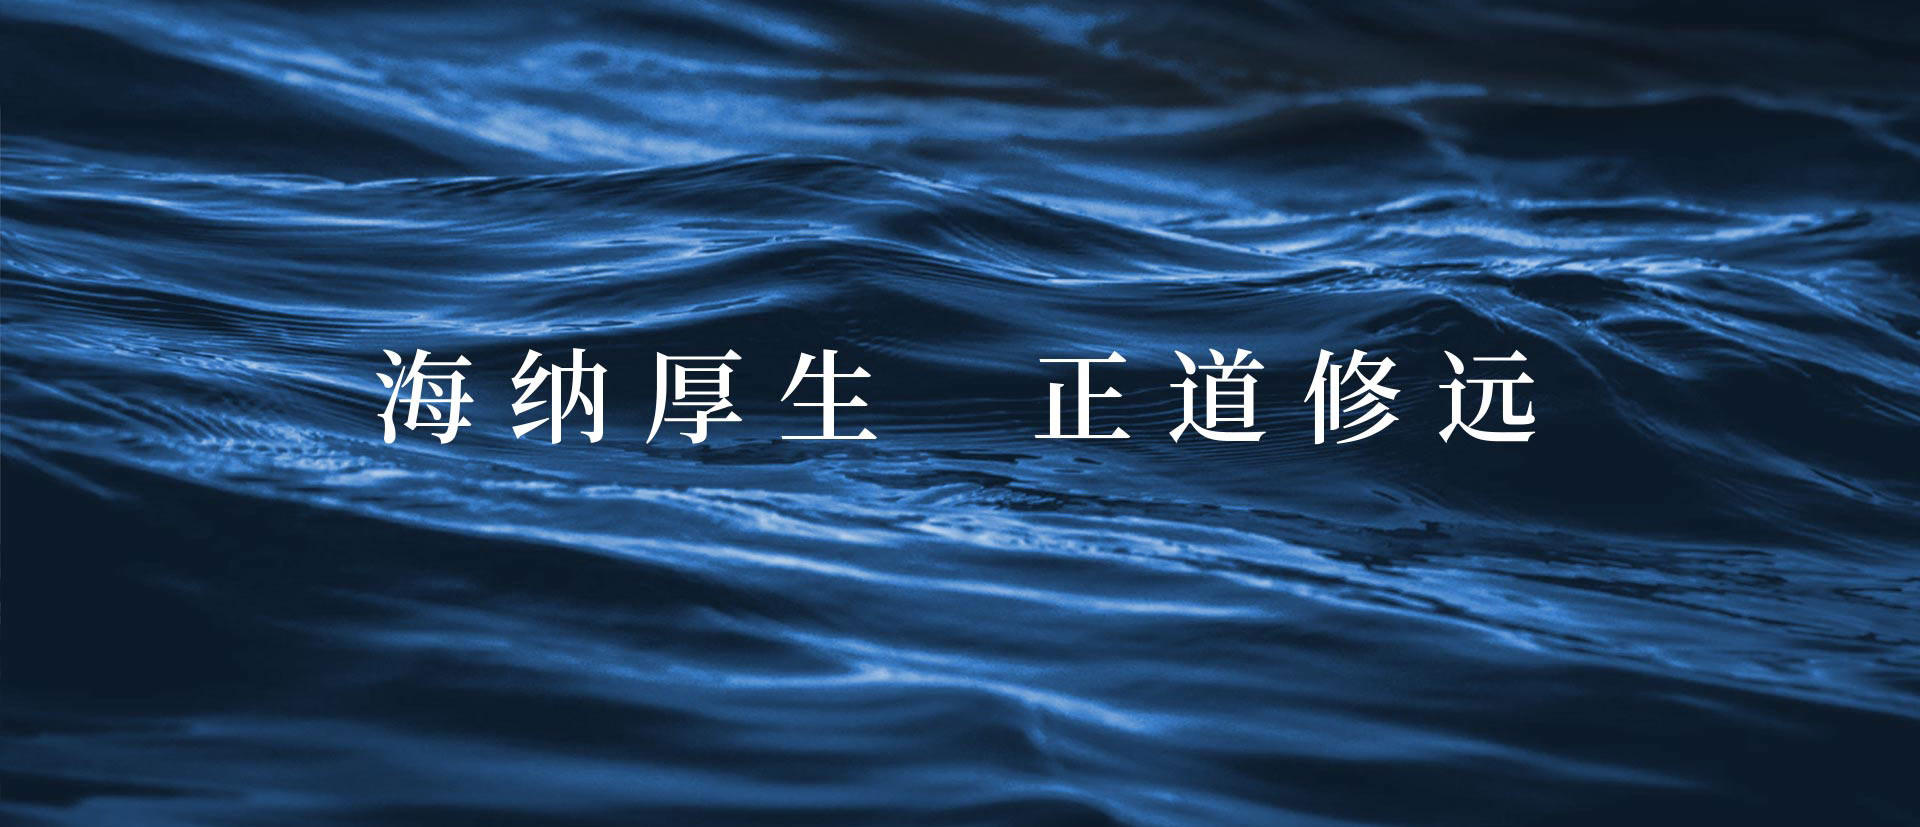
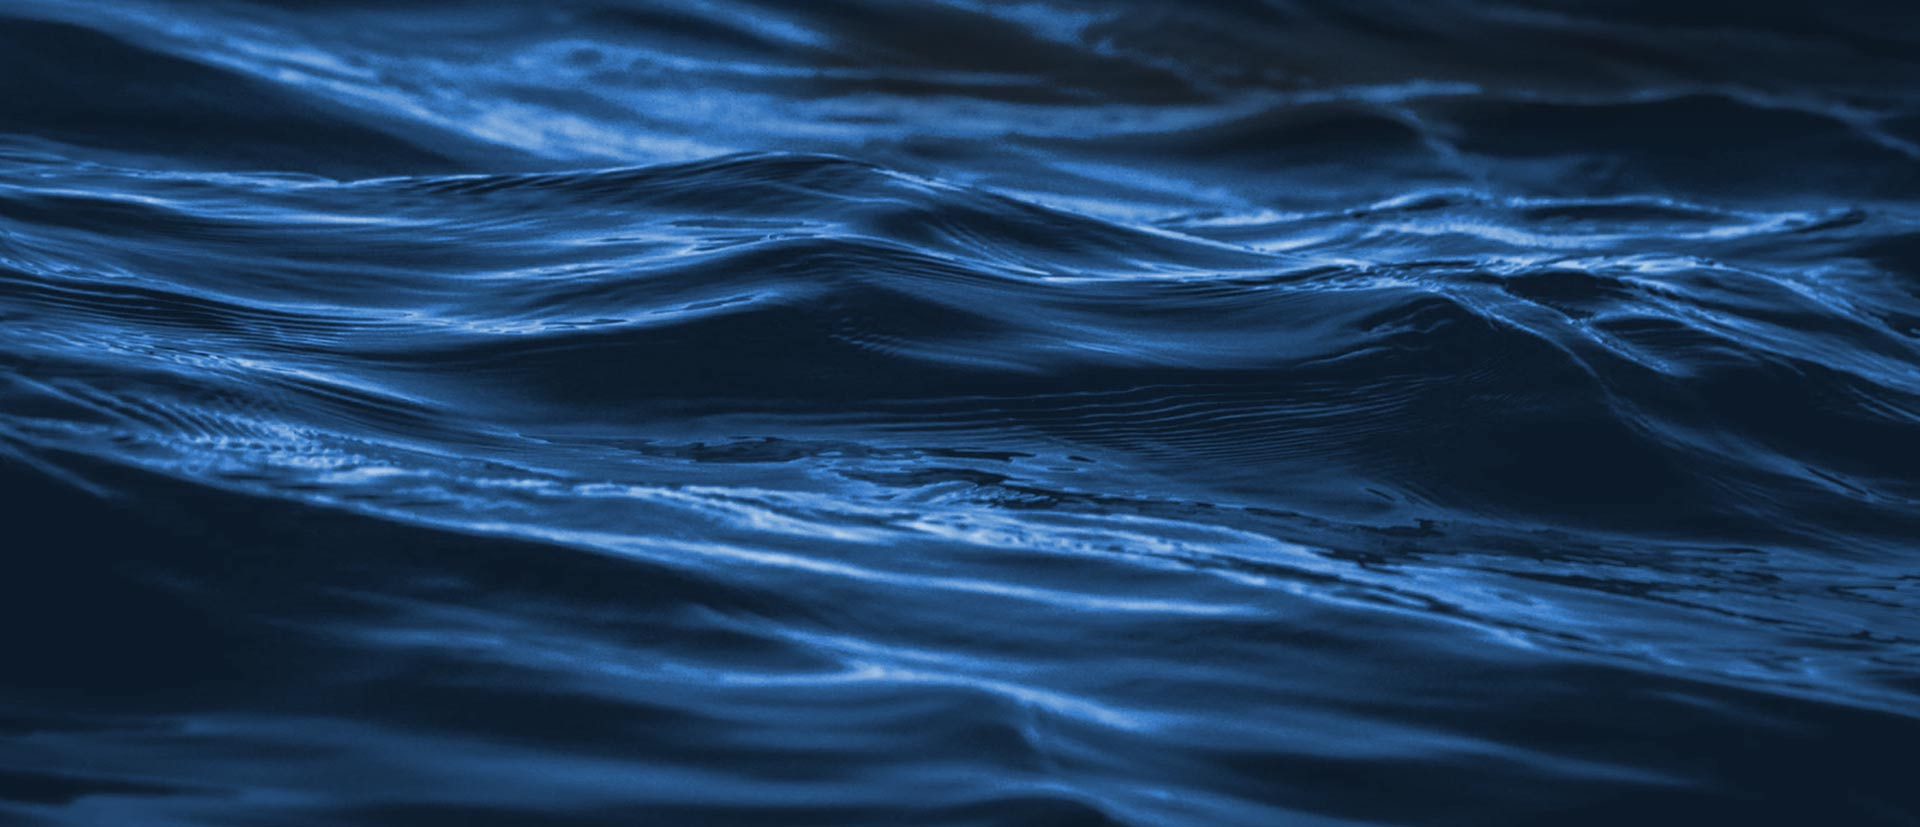
响应式ok版

diff --git a/hisun/about_us.html b/hisun/about_us.html
@@ -63,8 +63,15 @@
 	</header>
 	<div class="swiper-container">
 		<div class="swiper-wrapper">
-			<div class="swiper-slide"><img src="images/banner1.jpg"></div>
-			<div class="swiper-slide"><img src="images/banner2.jpg"></div>
+			<div class="swiper-slide">
+				<img src="images/banner1.jpg">
+				<h1>海纳厚生，正道修远</h1>
+			</div>
+			<div class="swiper-slide">
+				<img src="images/banner2.jpg">
+				<h2>助力</h2>
+				<h3>快乐陪伴</h3>
+			</div>
 		</div>
 		<!-- 如果需要分页器 -->
 		<div class="swiper-pagination"></div>
@@ -110,33 +117,35 @@
 				</div>
 			</div>
 			<h1>职业发展</h1>
-			<div class="job">
-				<div>
-					<img src="images/job1.jpg">
-					<h2>产品研发 <span>/12k~20k</span></h2>
-					<h4>职位描述</h4>
-					<p>岗位职责：</p>
-					<p>1.负责公司实验项目的开展</p>
-					<p>2.负责项目的管理、协调与调控</p>
-					<a href="">more</a>
-				</div>
-				<div>
-					<img src="images/job1.jpg">
-					<h2>产品研发 <span>/12k~20k</span></h2>
-					<h4>职位描述</h4>
-					<p>岗位职责：</p>
-					<p>1.负责公司实验项目的开展</p>
-					<p>2.负责项目的管理、协调与调控</p>
-					<a href="">more</a>
-				</div>
-				<div>
-					<img src="images/job1.jpg">
-					<h2>产品研发 <span>/12k~20k</span></h2>
-					<h4>职位描述</h4>
-					<p>岗位职责：</p>
-					<p>1.负责公司实验项目的开展</p>
-					<p>2.负责项目的管理、协调与调控</p>
-					<a href="">more</a>
+			<div class="job-scroll">
+				<div class="job">
+					<div>
+						<img src="images/job1.jpg">
+						<h2>产品研发 <span>/12k~20k</span></h2>
+						<h4>职位描述</h4>
+						<p>岗位职责：</p>
+						<p>1.负责公司实验项目的开展</p>
+						<p>2.负责项目的管理、协调与调控</p>
+						<a href="">more</a>
+					</div>
+					<div>
+						<img src="images/job1.jpg">
+						<h2>产品研发 <span>/12k~20k</span></h2>
+						<h4>职位描述</h4>
+						<p>岗位职责：</p>
+						<p>1.负责公司实验项目的开展</p>
+						<p>2.负责项目的管理、协调与调控</p>
+						<a href="">more</a>
+					</div>
+					<div>
+						<img src="images/job1.jpg">
+						<h2>产品研发 <span>/12k~20k</span></h2>
+						<h4>职位描述</h4>
+						<p>岗位职责：</p>
+						<p>1.负责公司实验项目的开展</p>
+						<p>2.负责项目的管理、协调与调控</p>
+						<a href="">more</a>
+					</div>
 				</div>
 			</div>
 			<img class="qr-code" src="images/qr-code.png">

diff --git a/hisun/css/header_footer.css b/hisun/css/header_footer.css
@@ -24,7 +24,7 @@ header .logo{
 	width: 100%;
 	padding: 0 5% 0 20px;
 	text-align: right;
-	background-color: #034995;
+	background-color: rgba(3, 73, 149, .88);
 	z-index: 99;
 }
 .layui-nav .layui-nav-item{
@@ -82,6 +82,31 @@ header .logo{
 }
 .swiper-container{
 	margin-top: 78px;
+}
+.swiper-slide h1{
+	position: absolute;
+	top: 40%;
+	width: 100%;
+	text-align: center;
+	font-size: 80px;
+	color: #fff;
+	letter-spacing: 20px;
+	z-index: 10;
+}
+.swiper-slide h2, .swiper-slide h3{
+	position: absolute;
+	top: 40%;
+	left: 10%;
+	padding: 0 20px;
+	font-size: 70px;
+	font-style: italic;
+	color: #fff;
+	letter-spacing: 10px;
+	background-color: #f49800;
+	z-index: 10;
+}
+.swiper-slide h3{
+	top: 52%;
 }
 .slogan{
 	text-align: center;
@@ -174,6 +199,16 @@ footer .site{
 	.layui-carousel img{
 		height: 100%;
 	}
+	.swiper-slide h1{
+		font-size: 40px;
+		letter-spacing: 10px;
+	}
+	.swiper-slide h2, .swiper-slide h3{
+		font-size: 40px;
+	}
+	.swiper-slide h3{
+		top: 62%;
+	}
 	footer{
 		text-align: left;
 	}
@@ -193,6 +228,17 @@ footer .site{
 	.swiper-container{
 		margin-top: 45px;
 	}
+	.swiper-slide h1{
+		font-size: 24px;
+		letter-spacing: 5px;
+	}
+	.swiper-slide h2, .swiper-slide h3{
+		font-size: 24px;
+		letter-spacing: 5px;
+	}
+	.swiper-slide h3{
+		top: 60%;
+	}
 	.layui-nav .logo{
 		display: none;
 	}
@@ -204,7 +250,7 @@ footer .site{
 		overflow-y: scroll;
 	}
 	.layui-nav-itemed>.layui-nav-child{
-		background-color: #034995 !important;
+		background-color: rgba(3, 73, 149, .1) !important;
 	}
 	.layui-nav-tree .layui-nav-item a{
 		padding: 0;

diff --git a/hisun/duty.html b/hisun/duty.html
@@ -63,8 +63,15 @@
 	</header>
 	<div class="swiper-container">
 		<div class="swiper-wrapper">
-			<div class="swiper-slide"><img src="images/banner1.jpg"></div>
-			<div class="swiper-slide"><img src="images/banner2.jpg"></div>
+			<div class="swiper-slide">
+				<img src="images/banner1.jpg">
+				<h1>海纳厚生，正道修远</h1>
+			</div>
+			<div class="swiper-slide">
+				<img src="images/banner2.jpg">
+				<h2>助力</h2>
+				<h3>快乐陪伴</h3>
+			</div>
 		</div>
 		<!-- 如果需要分页器 -->
 		<div class="swiper-pagination"></div>

diff --git a/hisun/health.html b/hisun/health.html
@@ -63,8 +63,15 @@
 	</header>
 	<div class="swiper-container">
 		<div class="swiper-wrapper">
-			<div class="swiper-slide"><img src="images/banner1.jpg"></div>
-			<div class="swiper-slide"><img src="images/banner2.jpg"></div>
+			<div class="swiper-slide">
+				<img src="images/banner1.jpg">
+				<h1>海纳厚生，正道修远</h1>
+			</div>
+			<div class="swiper-slide">
+				<img src="images/banner2.jpg">
+				<h2>助力</h2>
+				<h3>快乐陪伴</h3>
+			</div>
 		</div>
 		<!-- 如果需要分页器 -->
 		<div class="swiper-pagination"></div>

diff --git a/hisun/index.html b/hisun/index.html
@@ -65,8 +65,15 @@
 	</header>
 	<div class="swiper-container">
 		<div class="swiper-wrapper">
-			<div class="swiper-slide"><img src="images/banner1.jpg"></div>
-			<div class="swiper-slide"><img src="images/banner2.jpg"></div>
+			<div class="swiper-slide">
+				<img src="images/banner1.jpg">
+				<h1>海纳厚生，正道修远</h1>
+			</div>
+			<div class="swiper-slide">
+				<img src="images/banner2.jpg">
+				<h2>助力</h2>
+				<h3>快乐陪伴</h3>
+			</div>
 		</div>
 		<!-- 如果需要分页器 -->
 		<div class="swiper-pagination"></div>

diff --git a/hisun/news.html b/hisun/news.html
@@ -63,8 +63,15 @@
 	</header>
 	<div class="swiper-container">
 		<div class="swiper-wrapper">
-			<div class="swiper-slide"><img src="images/banner1.jpg"></div>
-			<div class="swiper-slide"><img src="images/banner2.jpg"></div>
+			<div class="swiper-slide">
+				<img src="images/banner1.jpg">
+				<h1>海纳厚生，正道修远</h1>
+			</div>
+			<div class="swiper-slide">
+				<img src="images/banner2.jpg">
+				<h2>助力</h2>
+				<h3>快乐陪伴</h3>
+			</div>
 		</div>
 		<!-- 如果需要分页器 -->
 		<div class="swiper-pagination"></div>

diff --git a/hisun/product_detail.html b/hisun/product_detail.html
@@ -63,8 +63,15 @@
 	</header>
 	<div class="swiper-container">
 		<div class="swiper-wrapper">
-			<div class="swiper-slide"><img src="images/banner1.jpg"></div>
-			<div class="swiper-slide"><img src="images/banner2.jpg"></div>
+			<div class="swiper-slide">
+				<img src="images/banner1.jpg">
+				<h1>海纳厚生，正道修远</h1>
+			</div>
+			<div class="swiper-slide">
+				<img src="images/banner2.jpg">
+				<h2>助力</h2>
+				<h3>快乐陪伴</h3>
+			</div>
 		</div>
 		<!-- 如果需要分页器 -->
 		<div class="swiper-pagination"></div>

diff --git a/hisun/research.html b/hisun/research.html
@@ -63,8 +63,15 @@
 	</header>
 	<div class="swiper-container">
 		<div class="swiper-wrapper">
-			<div class="swiper-slide"><img src="images/banner1.jpg"></div>
-			<div class="swiper-slide"><img src="images/banner2.jpg"></div>
+			<div class="swiper-slide">
+				<img src="images/banner1.jpg">
+				<h1>海纳厚生，正道修远</h1>
+			</div>
+			<div class="swiper-slide">
+				<img src="images/banner2.jpg">
+				<h2>助力</h2>
+				<h3>快乐陪伴</h3>
+			</div>
 		</div>
 		<!-- 如果需要分页器 -->
 		<div class="swiper-pagination"></div>

diff --git a/hisun/css/media2.css b/hisun/css/media2.css
@@ -21,6 +21,9 @@
     }
 }
 @media screen and (max-width: 768px) {
+    .slogan{
+        line-height: 40px;
+    }
     .wrap{
         padding: 30px 0 100px;
     }
@@ -52,10 +55,14 @@
         font-size: 16px;
         line-height: 25px;
     }
-    .job div{
-        width: 100%;
+    .job-scroll{
+        overflow-x: scroll;
     }
-    .job div:nth-child(2){
-        margin: 5% 0 0;
+    .job-scroll::-webkit-scrollbar{
+        display: none;
+    }
+    .job{
+        width: 800px;
+        padding-right: 2%;
     }
 }

diff --git a/hisun/css/media.css b/hisun/css/media.css
@@ -38,6 +38,9 @@
     .slogan{
         line-height: 40px;
     }
+    .wrap{
+        padding: 30px 0 100px;
+    }
     .product div p{
         height: 100px;
         overflow: hidden;
@@ -85,9 +88,9 @@
         width: 98px;
         font-size: 24px;
     }
-    .product-msg {
+    .product-list, .product-msg{
         width: 100%;
-        padding: 30px 5% 100px;
+        padding: 0 5% 100px;
     }
     .product-msg .msg-left{
         width: 70%;

diff --git a/hisun/product.html b/hisun/product.html
@@ -240,8 +240,6 @@
 	<script src="js/swiper.min.js"></script>
 	<script src="js/common.js"></script>
 	<script>
-		$('header').load('head.html')
-		$('header').load('index.html')
 		var pid = getQueryVariable('pid')
 		if (pid == 0) {
 			$('.product div:eq(0)').children('img').attr('src', 'images/pig2.png')

diff --git a/hisun/css/product.css b/hisun/css/product.css
@@ -2,7 +2,8 @@
 .product{
 	width: 1200px;
 	margin: 0 auto;
-	font-size: 0;
+    font-size: 0;
+    background-color: #fff;
 }
 .product div{
 	display: inline-block;
